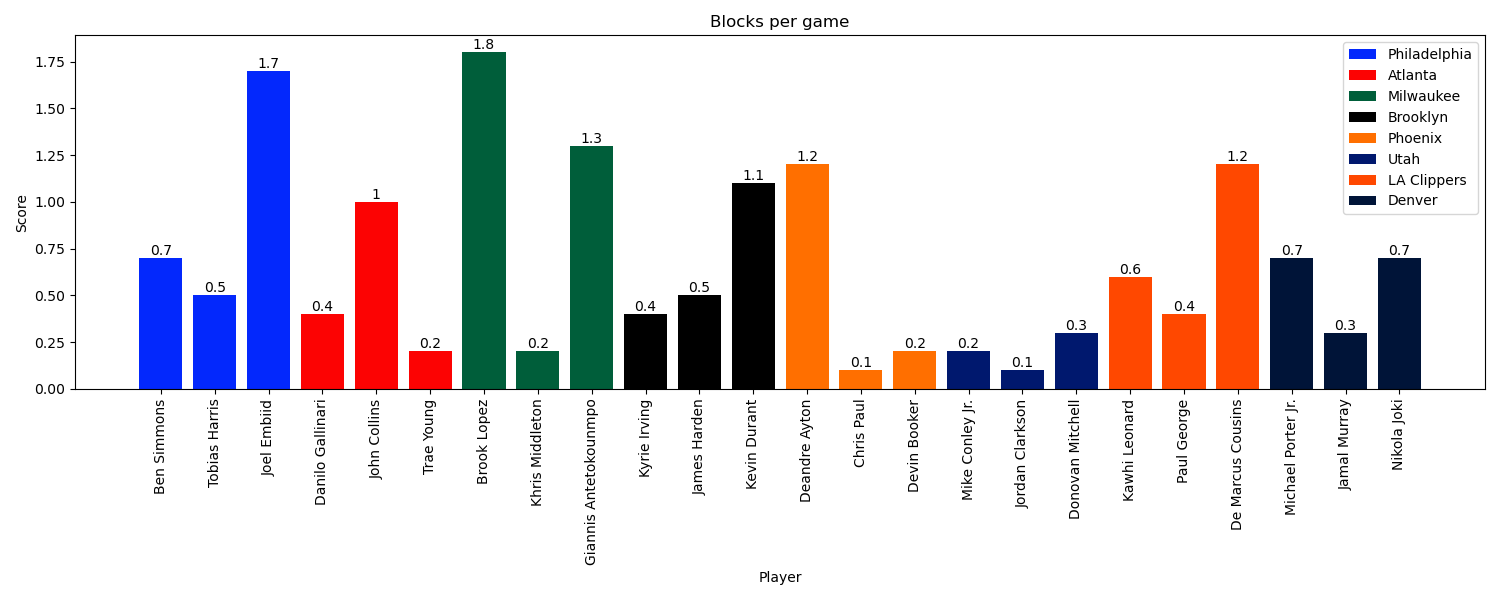
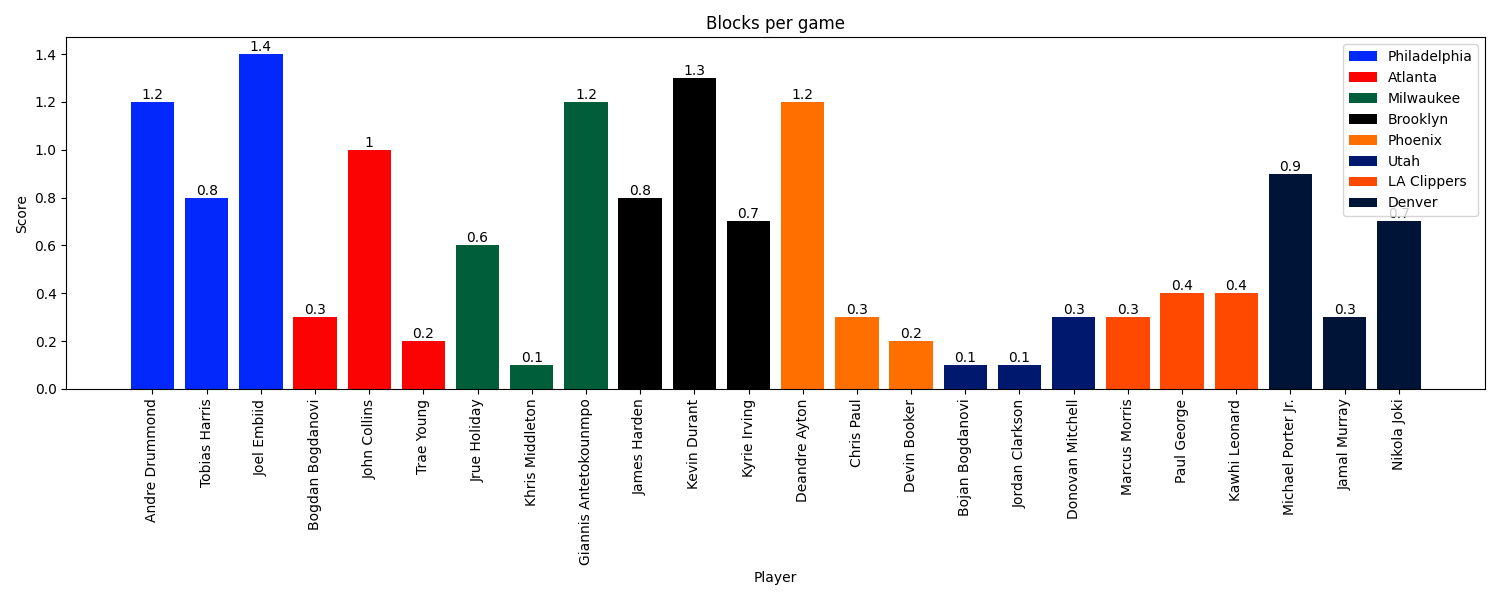
peer review done

diff --git a/assignment5/fetch_player_statistics.py b/assignment5/fetch_player_statistics.py
@@ -36,7 +36,6 @@ def extract_teams():
     # indices used in the teams table
     seed = 0
     name = 1
-    won = 2
     
     for i in range(len(rows)):
         cells = rows[i].find_all("td")
@@ -221,7 +220,7 @@ Example:
     # Extract the scores from the different categories
     # Be sure that some values were extracted or return just 0's
     try:
-        scores = [row for row in rows if row[0].text.strip('\n') == "Career"]
+        scores = [row for row in rows if row[0].text.strip('\n') == "2020–21" or row[0].text.strip('\n') == "2020–21†"] #we were supposed to plot the players based on the 2020-21 season
         scores = scores[0]
     except:
         return ppg, bpg, rpg

diff --git a/assignment5/time_planner.py b/assignment5/time_planner.py
@@ -57,7 +57,6 @@ def extract_events(url):
     # for Event, Venue, and Type (discipline)
 
     found_event = None
-    found_date = None
     found_venue = None
     found_discipline = None
     # Saving all necessary values in the list under
@@ -70,7 +69,6 @@ def extract_events(url):
     # short_row_length means a repeated venue, which
     # should be reused from the previous iteration
     short_row_length = full_row_length - 2
-    venue_span_rows = 0
 
     for row in rows:        
         cells = row.find_all("td")
